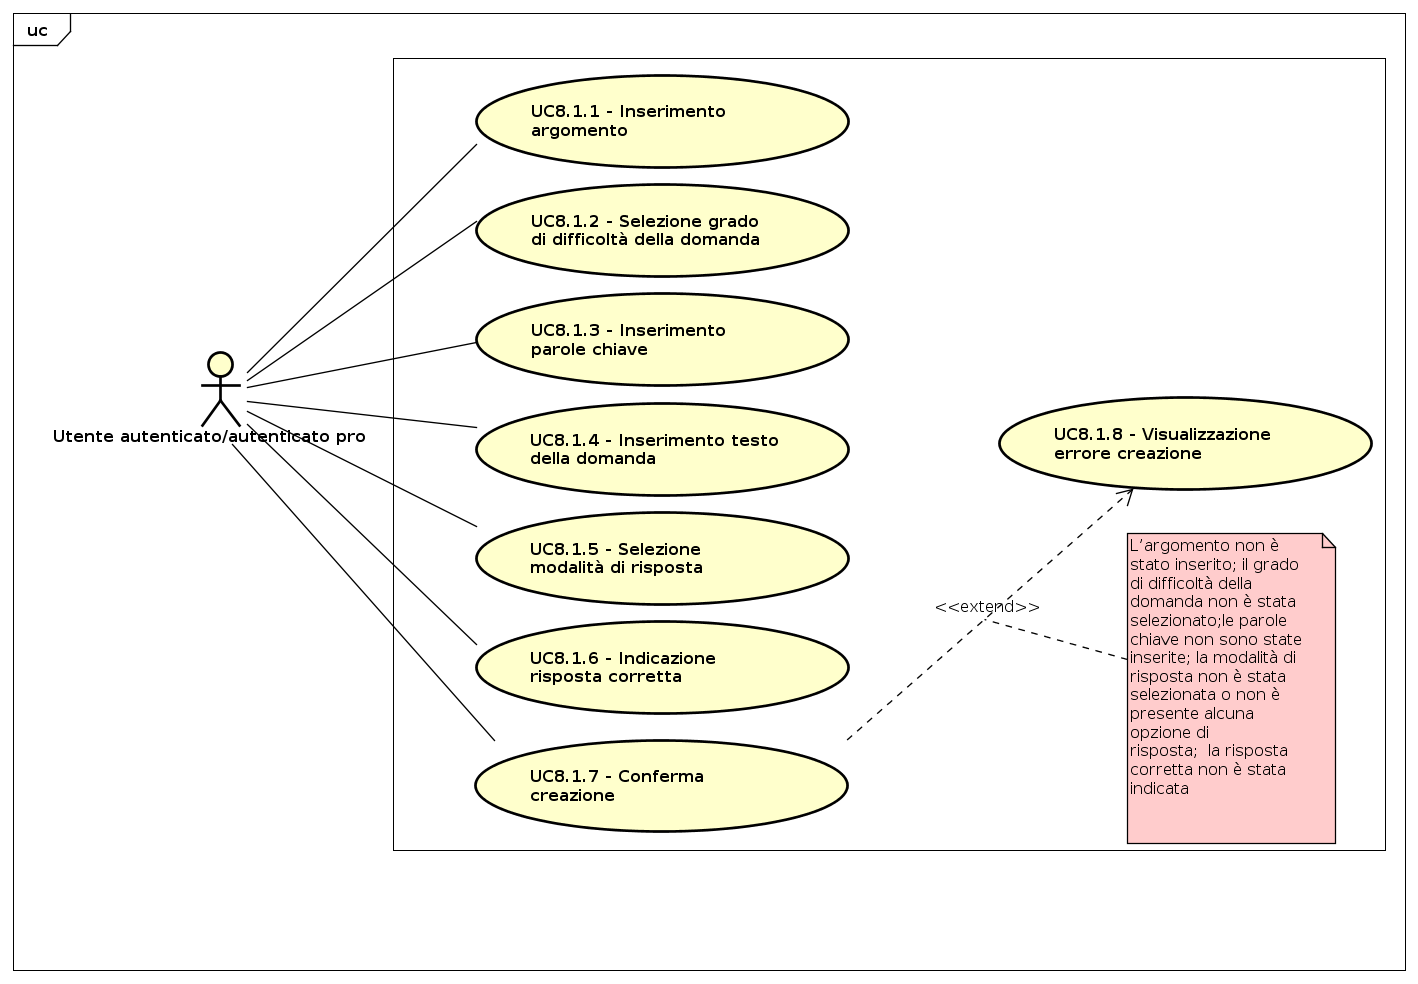
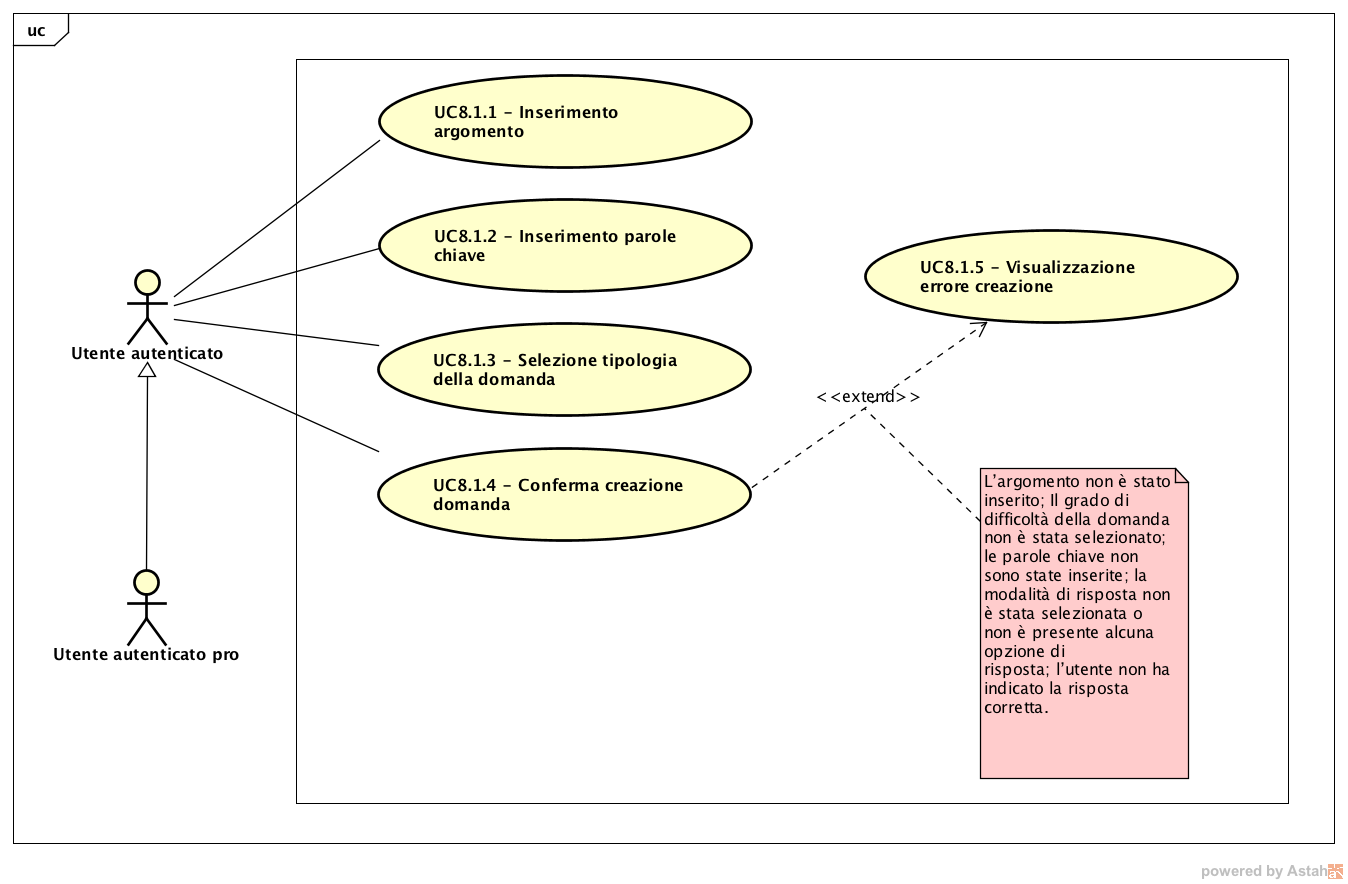
Altre modifiche UC8

diff --git a/RR/AnalisiDeiRequisiti/sezioni/CasiD'uso/CasoD'usoUC8.tex b/RR/AnalisiDeiRequisiti/sezioni/CasiD'uso/CasoD'usoUC8.tex
@@ -40,25 +40,21 @@
 		\item
 			\textbf{Precondizione}: gli attori hanno selezionato l'opzione per la creazione della domanda;
 		\item
-			\textbf{	Postcondizione}: gli attori ricevono conferma dell'avvenuta creazione;		
+			\textbf{Postcondizione}: gli attori ricevono conferma dell'avvenuta creazione;		
 		\item
 			\textbf{Scenario principale}:
 	       		\begin{enumerate}
 					\item
-					L'utente inserisce l'argomento relativo alla nuova domanda[UC8.1.1];
+					L'attore inserisce l'argomento relativo alla nuova domanda[UC8.1.1];
 					\item
-					L'utente inserisce le parole chiave relative alla nuova domanda [UC8.1.2];
+					L'attore inserisce le parole chiave relative alla nuova domanda [UC8.1.2];
 					\item
-					L'utente inserisce il testo della domanda [UC8.1.3];
+					L'attore seleziona la tipologia di domanda [UC8.1.3];
 					\item
-					L'utente deve selezionare la modalità di risposta ed eventualmente inserire le opzioni di risposta [UC8.1.4];
-					\item
-					L'utente deve indicare la risposta corretta [UC8.1.5];
-					\item
-					L'utente conferma la creazione della domanda [UC8.1.6].
+					L'attore conferma la creazione della domanda [UC8.1.4];
 	 			\end{enumerate}
 	 	\item
-			\textbf{Estensione}: L'utente visualizza un messaggio d'errore di conferma [UC8.1.8];
+			\textbf{Estensione}: L'utente visualizza un messaggio d'errore di conferma [UC8.1.5];
 	 	\item
 	 		\textbf{Scenario alternativo}: possono verificarsi uno o più di questi scenari:
 				\begin{itemize}
@@ -66,10 +62,8 @@
 						L'argomento non è stato inserito;
 					\item[-] 
 						Le parole chiave non sono state inserite;
-					\item[-] 
-						La modalità di risposta non è stata selezionata o non è presente alcuna opzione di risposta; 
 					\item[-]
-						La risposta corretta non è stata indicata.	
+						La tipologia di domanda non è stata selezionata.	
 				\end{itemize}
 			In tal caso il sistema ripresenta il modulo di creazione della domanda, presentando un messaggio d'errore.
 	\end{itemize}
@@ -142,16 +136,22 @@
 		\item
 			\textbf{Attori}: utente autenticato, utente autenticato pro;
 		\item
-			\textbf{Scopo e descrizione}: gli attori possono confermare la creazione della domanda;
+			\textbf{Scopo e descrizione}: l'attore possono confermare la creazione della domanda;
 		\item		
-			\textbf{Precondizione}: il sistema presenta all'utente autenticato l'opzione per compiere questa operazione;
+			\textbf{Precondizione}: il sistema presenta all'attore l'opzione per compiere questa operazione;
 		\item
 			\textbf{Postcondizione}: il sistema ha ricevuto i dati per la creazione;
 		\item
 			\textbf{Scenario Principale}:  
 					\begin{enumerate}
 						\item
-							Gli attori confermano la creazione della domanda.
+							L'attore confermano la creazione della domanda.
+					\end{enumerate}
+		\item
+	 		\textbf{Scenario alternativo}:
+	 		\begin{enumerate}
+						\item
+							L'attore annulla la creazione della domanda.
 					\end{enumerate}
 	\end{itemize}	
 	\subsubsection{Caso d'uso UC8.1.5: Visualizzazione errore creazione domanda}
@@ -267,6 +267,13 @@
 			\textbf{Precondizione}: Il sistema presenta all'utente autenticato l'opzione per compiere questa operazione;
 		\item
 			\textbf{Postcondizione}: Il sistema ha ricevuto i dati per la modifica.
+		\item
+	 		\textbf{Scenario principale}:
+	 	\item
+	 		\textbf{Scenario alternativo}:
+	 		\begin{itemize}
+	 			\item L'attore annulla la modifica alla domanda.
+	 		\end{itemize}
 	\end{itemize}		
 	\subsubsection{Caso d'uso UC8.2.3: Visualizzazione errore modifica}
 	\begin{itemize}
@@ -278,5 +285,8 @@
 			\textbf{Precondizione}: Il sistema ha ricevuto dei dati errati per la modifica;
 		\item
 			\textbf{Postcondizione}: Il sistema mostra un messaggio d'errore.
+		\item
+	 		\textbf{Scenario principale}:
+	 
 	\end{itemize}	
 	
